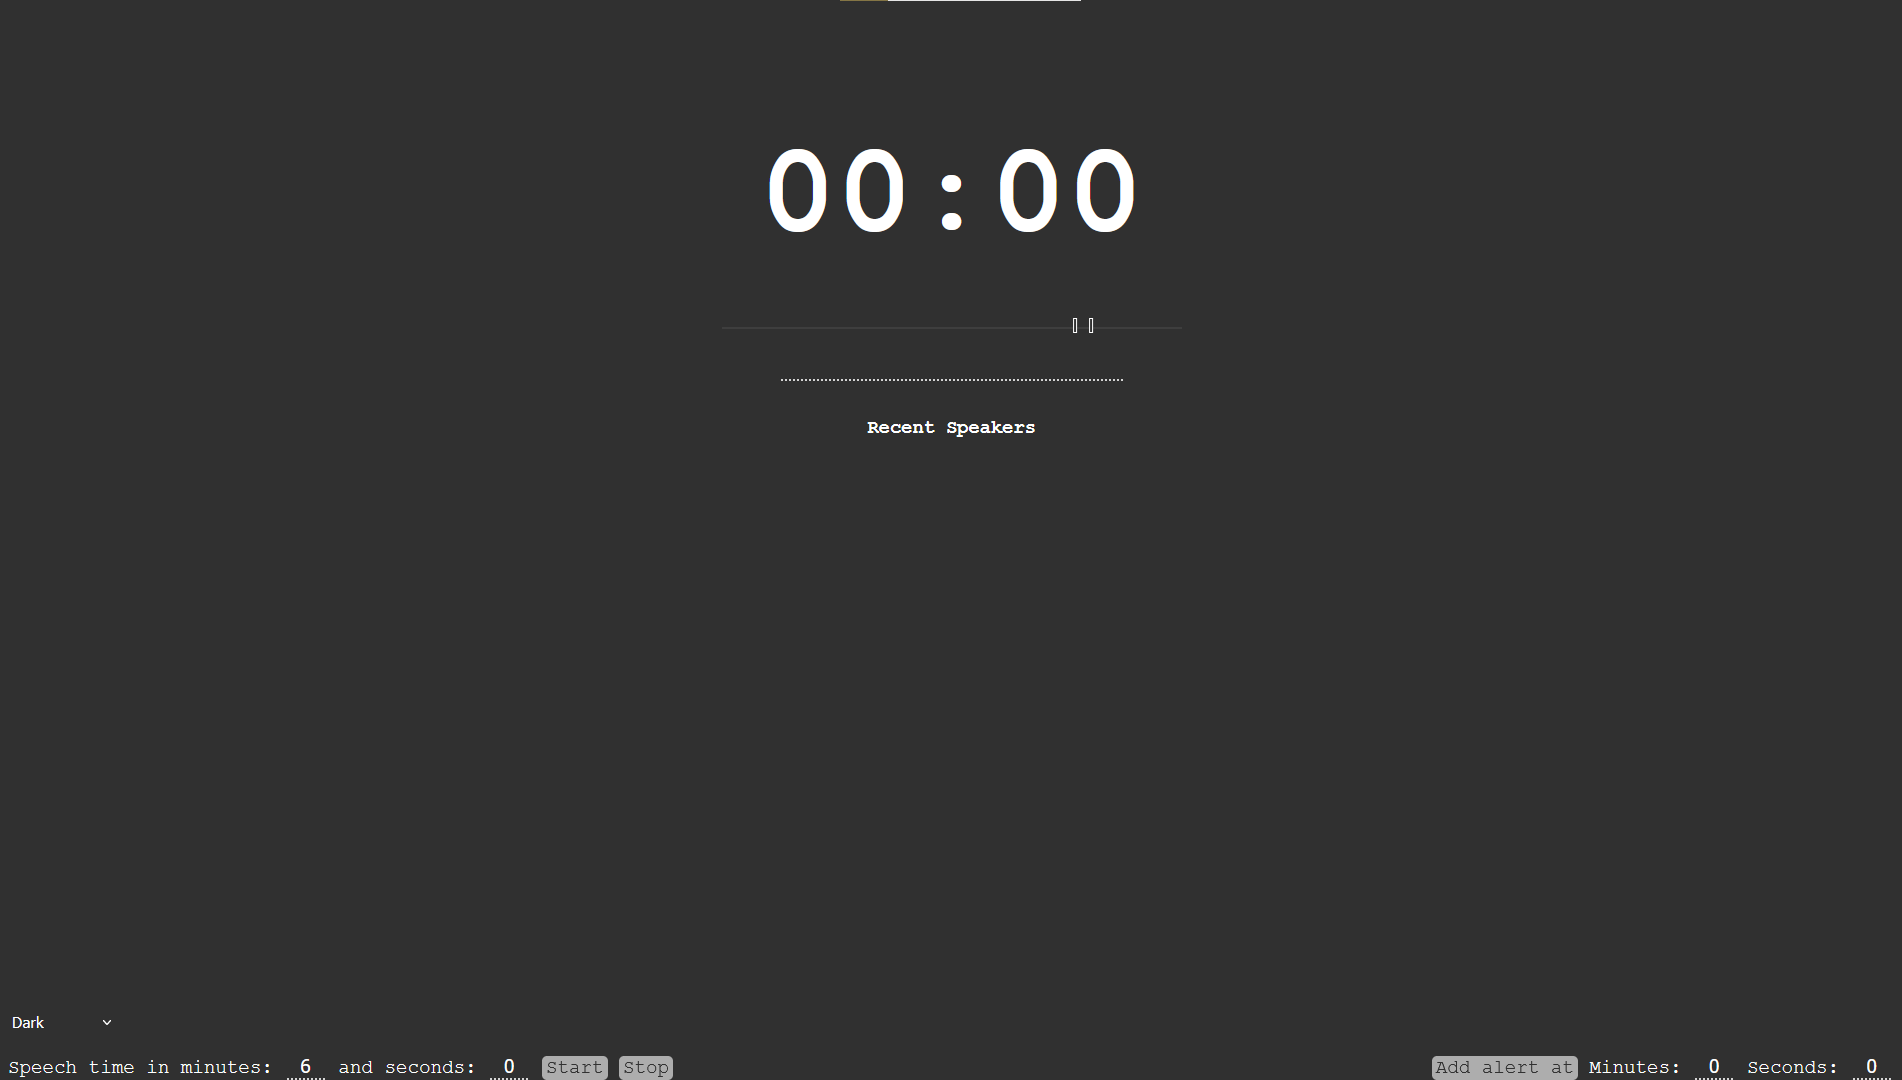
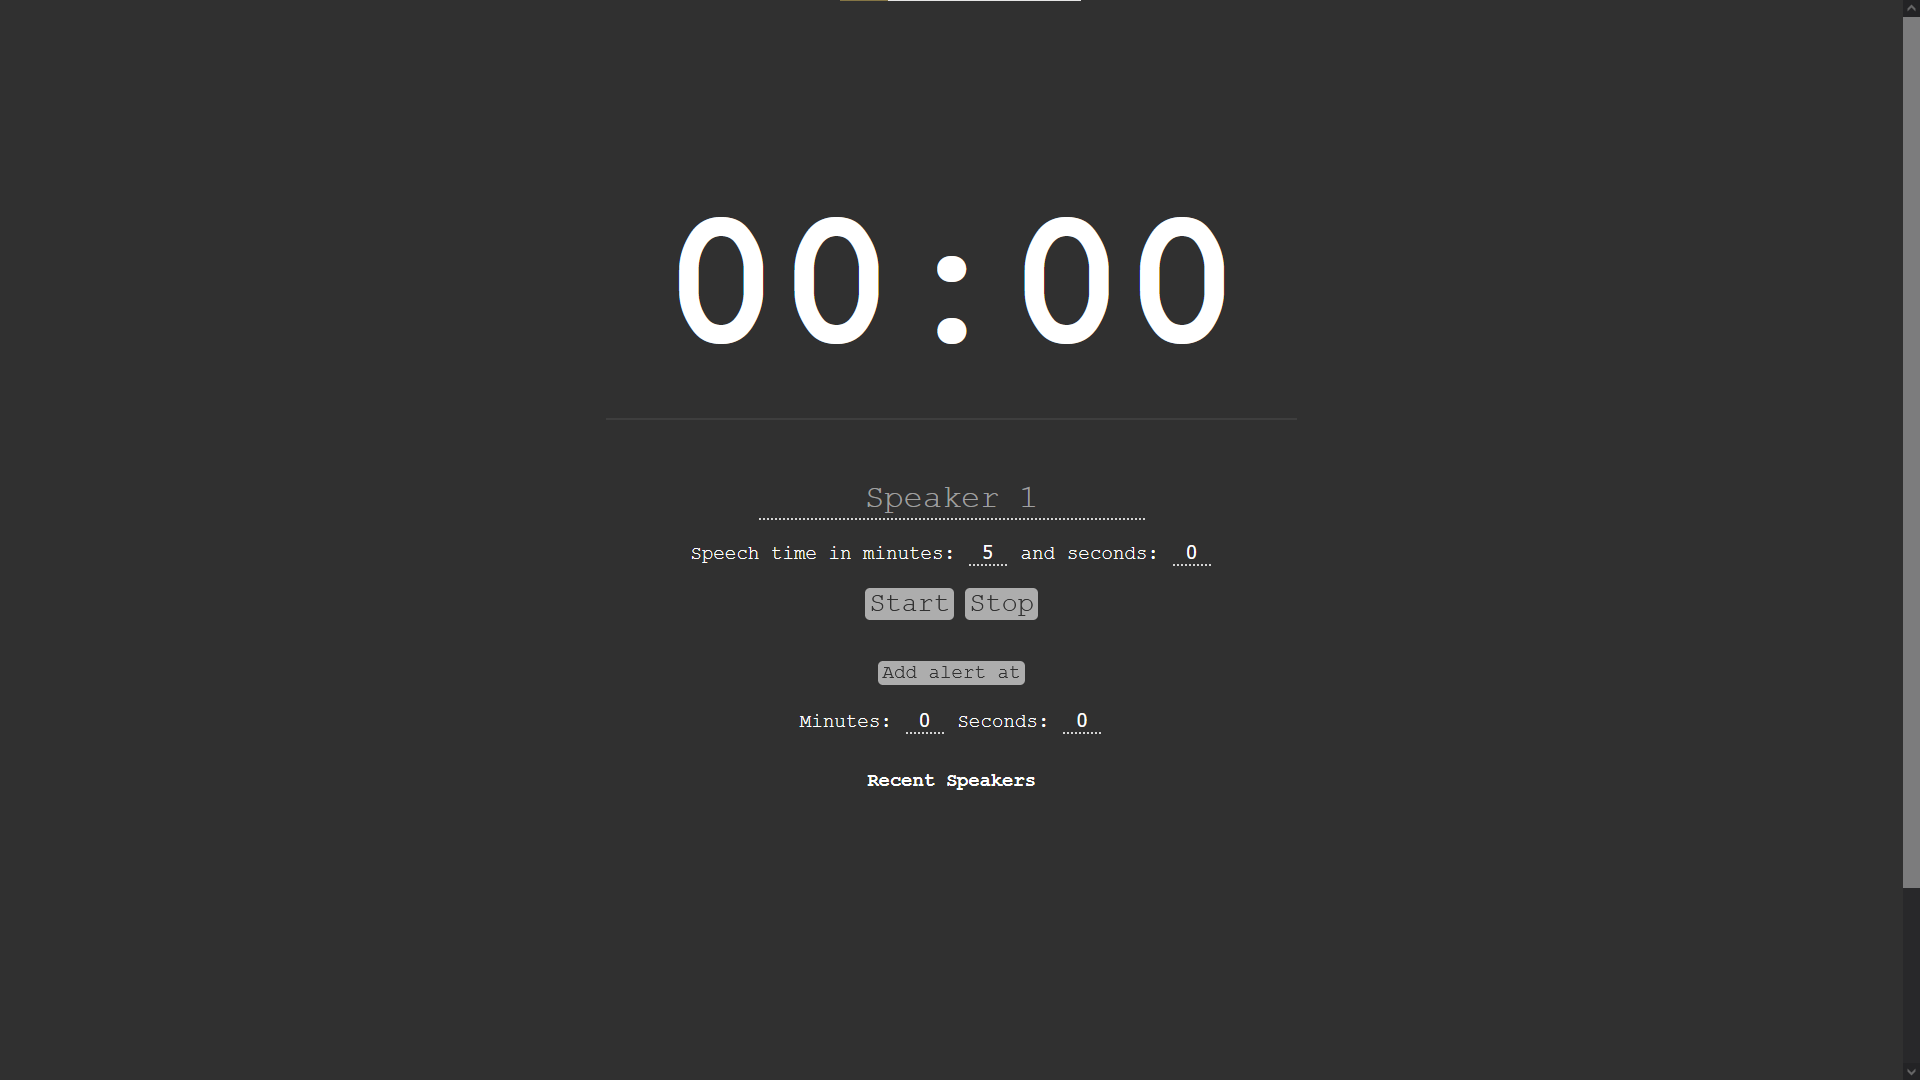
Added tutorials and fixed bugs

diff --git a/index.html b/index.html
@@ -6,20 +6,43 @@
     <meta charset="UTF-8">
     <link rel="stylesheet" href="css/theming.css">
     <link rel="stylesheet" href="css/stylesheet.css">
+    <link rel="stylesheet" href="css/modal.css">
     <title>Quarrel</title>
     <meta name="viewport" content="width=device-width, initial-scale=1.0">
+    <script src="js/modal.js" defer></script>
+    <script src="js/tutorial.js" defer></script>
+    <script src="js/debug.js" defer></script>
 </head>
 
 <body>
+    <div id="help_modal" class="modal">
+        <div class="modal-content">
+            <span class="close" title="Close changelog">&times;</span>
+            <h1 style="border-bottom: 1px solid var(--text-color);width: 95%;">Changelog</h1>
+            <p>
+                +Added changelog.<br>
+                +Added tutorial for pc first time visitors.<br>
+                +Changed the site icon to something that actually makes sense<br>
+                +Added <span title="like this">tooltips</span><br>
+                -Fixed bug where you could edit the speaker time while the timer was active.
+            </p>
+        </div>
+    </div>
+
+
+    <div class="modal" id="tooltip_bg">
+        <div id="tooltip">You're not supposed to see this (;O.O)</div>
+    </div>
+
     <div class="container">
         <div class="container_row">
-            <h1 class="timer" id="clock">00:00</h1>
+            <h1 class="timer" id="clock" title="The timer">00:00</h1>
         </div>
         <div class="container_row">
             <canvas id="clock_line"></canvas>
         </div>
         <div class="container_row">
-            <input id="name" type="text" placeholder="Speaker Name" style="font-family: 'Courier New', Courier, monospace;">
+            <input id="name" type="text" title="Enter the speaker name here." placeholder="Speaker Name" style="font-family: 'Courier New', Courier, monospace;">
         </div>
         
         <div class="footer">
@@ -27,30 +50,30 @@
             Speech time in
 
             <label>minutes: </label>
-            <input onchange="updateSpeechTime()" type="number" min="0" max="60" value="0" id="t_min">
+            <input onchange="updateSpeechTime()" title="Enter speech time in minutes here." type="number" min="0" max="60" value="0" id="t_min">
             <label>and seconds: </label>
-            <input onchange="updateSpeechTime()" type="number" min="0" max="59" value="0" id="t_sec">
+            <input onchange="updateSpeechTime()" title="Enter speech time in seconds here." type="number" min="0" max="59" value="0" id="t_sec">
             <br><br>
-            <button onclick="startClock()" style="font-size: 1.4em;">Start</button>
-            <button onclick="stopClock()" style="font-size: 1.4em;">Stop</button>
+            <button onclick="startClock()" style="font-size: 1.4em;" id="start_btn" title="Press to start the timer">Start</button>
+            <button onclick="stopClock()" style="font-size: 1.4em;" id="stop_btn" title="Press to stop the timer">Stop</button>
 
             <p></p>
             <br>
 
-            <button 
+            <button id="add_alert" title="Press to add an alert"
                 onclick="addAlert(parseInt(document.getElementById('a_min').value.toString()),parseInt(document.getElementById('a_sec').value.toString()))">Add
                 alert at</button>
             <br><br>
             <label>Minutes: </label>
-            <input type="number" min="0" max="60" value="0" id="a_min">
+            <input type="number" min="0" max="60" value="0" id="a_min" title="Enter the alert time in minutes here.">
             <label>Seconds: </label>
-            <input type="number" min="0" max="59" value="0" id="a_sec">
+            <input type="number" min="0" max="59" value="0" id="a_sec" title="Enter the alert time in seconds here.">
 
         </div>
         
         <div class="container_row">
             <div id="records">
-                <h3>Recent Speakers</h3>
+                <h3 id="recent" title="Recent speakers.">Recent Speakers</h3>
             </div>
         </div>
         
@@ -58,7 +81,7 @@
 
     <div>
             
-        <p style="font-size: 0.4em;">
+        <p style="font-size: 0.4em;" title="(O.O)">
                       ⡀⠈    ⣠   ⢈             <br>
                ⡱⣯⣌⢈ ⣰⣏⠈⣨⠏             <br>
            ⢈    ⠐⡳⣷⣯⣾⣿⣯⣾⣏⣌⡮⠃ ⠈        <br>
@@ -78,15 +101,16 @@
         </p><br>
 
         <div style="font-size: 1.2em; font-family: 'Courier New', Courier, monospace;">
-            <select id="theme_selector">
+            <select id="theme_selector" title="Select a theme.">
                 <option>Dark</option>
                 <option>Light</option>
-                <option>Twilight</option>
+                <option title="Don't judge, this was supposed to be temporary">Twilight</option>
                 <option>Kimbie Dark</option>
             </select>
                 
-            <a href="https://github.com/VishalVSV" target="_blank"><img style="transform: translateY(5px);" src="https://github.githubassets.com/images/modules/site/icons/footer/github-mark.svg"></a>
-            <button onclick="copyTemplateLink()">Copy link</button>
+            <a href="https://github.com/VishalVSV" title="My github" target="_blank"><img style="transform: translateY(5px);" src="https://github.githubassets.com/images/modules/site/icons/footer/github-mark.svg"></a>
+            <span onclick="modal.style.display='block'" title="Changelog" class="help-btn">𝌡</span>
+            <button onclick="copyTemplateLink()" title="Copy the timer settings as a templated link">Copy link</button>
         </div>
     </div>
 

diff --git a/js/tutorial.js b/js/tutorial.js
@@ -1,0 +1,84 @@
+let current_version = "v1.0.0";
+
+
+let tooltip_container = document.getElementById("tooltip_bg");
+let tooltip = document.getElementById("tooltip");
+let test_element = document.getElementById("name");
+
+function getOffset(el) {
+    const rect = el.getBoundingClientRect();
+    return {
+        left: rect.left + window.scrollX + rect.width,
+        top: rect.top + window.scrollY
+    };
+}
+
+let tutorial_in_progress = false;
+
+let tutorial_sequence = [
+    { text: "This is the timer. It will count up to the given time and flash red and beep when the time is up.", elem: document.getElementById("clock") },
+    { text: "Enter the name of the speaker here.", elem: document.getElementById("name") },
+    { text: "Enter the number of minutes for the speech here.", elem: document.getElementById("t_min") },
+    { text: "Enter the number of seconds for the speech here.", elem: document.getElementById("t_sec") },
+    { text: "Press this button to start the timer.", elem: document.getElementById("start_btn") },
+    { text: "Press this button to stop the timer.", elem: document.getElementById("stop_btn") },
+    { text: "Press this button to add an alert to the timer.", elem: document.getElementById("add_alert") },
+    { text: "Enter the number of minutes for the alert here.", elem: document.getElementById("a_min") },
+    { text: "Enter the number of seconds for the alert here.", elem: document.getElementById("a_sec") },
+    { text: "The speakers who have finished will show up here with their speech times.", elem: document.getElementById("recent") },
+];
+
+let tutorial_sequence_index = 0;
+
+function tutorial_start() {
+    window.scroll({
+        top: 0, 
+        left: 0, 
+        behavior: 'smooth'
+    });
+
+    tooltip_container.style.display = "block";
+    tutorial_in_progress = true;
+
+    if(tutorial_sequence_index < tutorial_sequence.length) {
+        tooltip.innerText = tutorial_sequence[tutorial_sequence_index].text;
+        move_tooltip_to(tutorial_sequence[tutorial_sequence_index].elem);
+    }
+}
+
+function move_tooltip_to(elem) {
+    let c = getOffset(elem);
+    tooltip.style.left = `${c.left}px`;
+    tooltip.style.top = `${c.top}px`;
+}
+
+window.addEventListener('click',function(event) {
+    if (tutorial_in_progress) {
+        if (event.target != tooltip) {
+            tutorial_sequence_index++;
+            
+            if(tutorial_sequence_index < tutorial_sequence.length) {
+                tooltip.innerText = tutorial_sequence[tutorial_sequence_index].text;
+                move_tooltip_to(tutorial_sequence[tutorial_sequence_index].elem);
+            }
+            else {
+                tutorial_sequence_index = 0;
+                tutorial_in_progress = false;
+                tooltip_container.style.display = "none";
+            }
+        }
+    }
+});
+
+window.mobileCheck = function() {
+    let check = false;
+    (function(a){if(/(android|bb\d+|meego).+mobile|avantgo|bada\/|blackberry|blazer|compal|elaine|fennec|hiptop|iemobile|ip(hone|od)|iris|kindle|lge |maemo|midp|mmp|mobile.+firefox|netfront|opera m(ob|in)i|palm( os)?|phone|p(ixi|re)\/|plucker|pocket|psp|series(4|6)0|symbian|treo|up\.(browser|link)|vodafone|wap|windows ce|xda|xiino/i.test(a)||/1207|6310|6590|3gso|4thp|50[1-6]i|770s|802s|a wa|abac|ac(er|oo|s\-)|ai(ko|rn)|al(av|ca|co)|amoi|an(ex|ny|yw)|aptu|ar(ch|go)|as(te|us)|attw|au(di|\-m|r |s )|avan|be(ck|ll|nq)|bi(lb|rd)|bl(ac|az)|br(e|v)w|bumb|bw\-(n|u)|c55\/|capi|ccwa|cdm\-|cell|chtm|cldc|cmd\-|co(mp|nd)|craw|da(it|ll|ng)|dbte|dc\-s|devi|dica|dmob|do(c|p)o|ds(12|\-d)|el(49|ai)|em(l2|ul)|er(ic|k0)|esl8|ez([4-7]0|os|wa|ze)|fetc|fly(\-|_)|g1 u|g560|gene|gf\-5|g\-mo|go(\.w|od)|gr(ad|un)|haie|hcit|hd\-(m|p|t)|hei\-|hi(pt|ta)|hp( i|ip)|hs\-c|ht(c(\-| |_|a|g|p|s|t)|tp)|hu(aw|tc)|i\-(20|go|ma)|i230|iac( |\-|\/)|ibro|idea|ig01|ikom|im1k|inno|ipaq|iris|ja(t|v)a|jbro|jemu|jigs|kddi|keji|kgt( |\/)|klon|kpt |kwc\-|kyo(c|k)|le(no|xi)|lg( g|\/(k|l|u)|50|54|\-[a-w])|libw|lynx|m1\-w|m3ga|m50\/|ma(te|ui|xo)|mc(01|21|ca)|m\-cr|me(rc|ri)|mi(o8|oa|ts)|mmef|mo(01|02|bi|de|do|t(\-| |o|v)|zz)|mt(50|p1|v )|mwbp|mywa|n10[0-2]|n20[2-3]|n30(0|2)|n50(0|2|5)|n7(0(0|1)|10)|ne((c|m)\-|on|tf|wf|wg|wt)|nok(6|i)|nzph|o2im|op(ti|wv)|oran|owg1|p800|pan(a|d|t)|pdxg|pg(13|\-([1-8]|c))|phil|pire|pl(ay|uc)|pn\-2|po(ck|rt|se)|prox|psio|pt\-g|qa\-a|qc(07|12|21|32|60|\-[2-7]|i\-)|qtek|r380|r600|raks|rim9|ro(ve|zo)|s55\/|sa(ge|ma|mm|ms|ny|va)|sc(01|h\-|oo|p\-)|sdk\/|se(c(\-|0|1)|47|mc|nd|ri)|sgh\-|shar|sie(\-|m)|sk\-0|sl(45|id)|sm(al|ar|b3|it|t5)|so(ft|ny)|sp(01|h\-|v\-|v )|sy(01|mb)|t2(18|50)|t6(00|10|18)|ta(gt|lk)|tcl\-|tdg\-|tel(i|m)|tim\-|t\-mo|to(pl|sh)|ts(70|m\-|m3|m5)|tx\-9|up(\.b|g1|si)|utst|v400|v750|veri|vi(rg|te)|vk(40|5[0-3]|\-v)|vm40|voda|vulc|vx(52|53|60|61|70|80|81|83|85|98)|w3c(\-| )|webc|whit|wi(g |nc|nw)|wmlb|wonu|x700|yas\-|your|zeto|zte\-/i.test(a.substr(0,4))) check = true;})(navigator.userAgent||navigator.vendor||window.opera);
+    return check;
+};
+
+if(localStorage.getItem("quarrel_first_visit") == null || localStorage.getItem("quarrel_first_visit") != current_version) {
+    if (!window.mobileCheck()) {
+        tutorial_start();
+        localStorage.setItem("quarrel_first_visit", current_version);
+    }
+}

diff --git a/css/stylesheet.css b/css/stylesheet.css
@@ -27,6 +27,18 @@
     }
 }
 
+#tooltip {
+    position: fixed;
+    background-color: var(--text-color);
+    color: var(--bg-color);
+    z-index: 1;
+    text-align: center;
+    padding: 5px 10px;
+    padding-left: 20px;
+    border-radius: 6px;
+    clip-path: polygon(10px 40%, 10px 0, 100% 0, 100% 100%, 10px 100%, 10px 60%, 0% 50%);
+}
+
 #clock_line {
     margin-bottom: 50px;
 }
@@ -38,7 +50,7 @@ div.container {
     flex-direction: column;
 }
 
-input#name {
+input#name:not(:disabled) {
     color: var(--text-color);
     background-color: transparent;
     border: none;
@@ -46,6 +58,17 @@ input#name {
     font-size: 2em;
     text-align: center;
     overflow: scroll;
+}
+
+input#name:disabled {
+    color: var(--text-color);
+    background-color: transparent;
+    border: none;
+    border-bottom: var(--text-color) 2px dotted;
+    font-size: 2em;
+    text-align: center;
+    overflow: scroll;
+    opacity: 0.5;
 }
 
 input#name:focus{
@@ -58,6 +81,10 @@ input#name:focus{
 
 #records > h3 {
     text-align: center;
+}
+
+.help-btn {
+    cursor: pointer;
 }
 
 button {
@@ -81,12 +108,26 @@ button {
     }
 }
 
-input[type="number"] {
+input[type="number"]:not(:disabled) {
     appearance: textfield;
 }
 
-button:hover {
+
+input[type="number"]:disabled {
+    appearance: textfield;
+    opacity: 0.5;
+}
+
+button:hover:not(:disabled) {
     cursor: pointer;
+}
+
+*:disabled {
+    cursor: not-allowed;
+}
+
+button:disabled {
+    opacity: 0.2;
 }
 
 div.container_row {

diff --git a/js/main.js b/js/main.js
@@ -53,6 +53,10 @@ function startClock() {
         stopClock();
     }
 
+    document.getElementById("name").disabled = true;
+    document.getElementById("add_alert").disabled = true;
+    (Array.from(document.querySelectorAll("input[type=number]"))).forEach(i => i.disabled = true);
+
     clock_start = new Date();
 
     updateLoop = window.setInterval(function() {
@@ -94,6 +98,10 @@ function startClock() {
 }
 
 function stopClock() {
+    document.getElementById("name").disabled = false;
+    document.getElementById("add_alert").disabled = false;
+    (Array.from(document.querySelectorAll("input[type=number]"))).forEach(i => i.disabled = false);
+
     if (updateLoop != null) {
         window.clearInterval(updateLoop);
         updateLoop = null;
@@ -185,7 +193,7 @@ function drawAlerts() {
 
 function copyTemplateLink() {
     if(speechTime == 0) {
-        alert("Speech time cannot be zero");
+        alert("Can't create a template for speech with no speech time");
         return;
     }
 

diff --git a/css/modal.css b/css/modal.css
@@ -1,0 +1,32 @@
+.modal {
+    display: none; 
+    position: fixed; 
+    z-index: 1; 
+    left: 0;
+    top: 0;
+    width: 100%; 
+    height: 100%; 
+    overflow: auto; 
+    background-color: rgb(0,0,0); 
+    background-color: rgba(0,0,0,0.4);
+}
+
+.modal-content {
+    background-color: var(--bg-color);
+    margin: 15% auto;
+    padding: 20px;
+    width: 80%;
+}
+
+.close {
+    color: var(--text-color);
+    float: right;
+    font-size: 28px;
+    font-weight: bold;
+}
+
+.close:hover, .close:focus {
+    color: black;
+    text-decoration: none;
+    cursor: pointer;
+}

diff --git a/js/modal.js b/js/modal.js
@@ -1,0 +1,15 @@
+var modal = document.getElementById("help_modal");
+
+var span = document.getElementsByClassName("close")[0];
+
+span.onclick = function() {
+    modal.style.display = "none";
+}
+
+window.addEventListener('click',function(event) {
+    if (event.target == modal) {
+        modal.style.display = "none";
+    }
+});
+
+// modal.style.display = "block"

diff --git a/js/debug.js b/js/debug.js
@@ -1,0 +1,7 @@
+function enable_debug() {
+    debug = {
+        reset_help: function() { localStorage.setItem("quarrel_first_visit", null) }
+    };
+}
+
+var debug = null;

diff --git a/js/qr.js b/js/qr.js
@@ -1,0 +1,1 @@
+// TODO: Make a system to generate a qr code for the timers.
